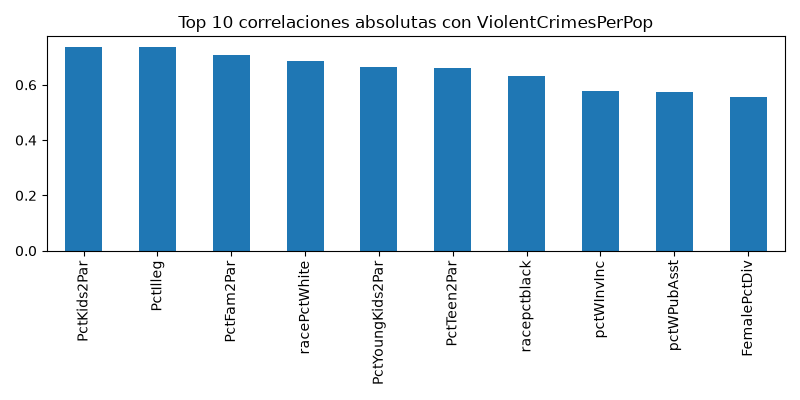
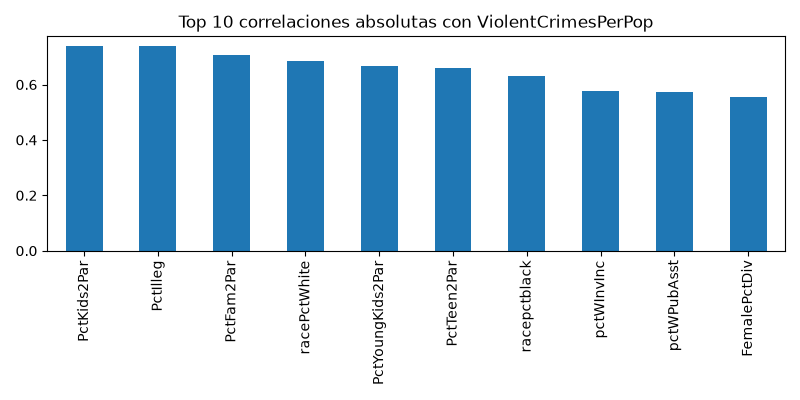
feat: integra analisis en main.py y actualiza README con hallazgos completos

diff --git a/main.py b/main.py
@@ -1,7 +1,10 @@
 import json
 from pathlib import Path
 
+import pandas as pd
+
 from lab_semana1.carga import cargar, guardar, limpiar, reporte_nulos
+from src.analisis import recta_minimos_cuadrados, resumen_por_grupo, top_k
 
 
 class FriendlyException(Exception):
@@ -61,14 +64,37 @@ def main():
     with open(report_path, "w", encoding="utf8") as fh:
         json.dump(report, fh, indent=2)
 
-    # try to plot top correlations with target if matplotlib available
     target = "ViolentCrimesPerPop"
+
+    if "population" in cleaned.columns:
+        cleaned["grupo_poblacion"] = pd.qcut(
+            cleaned["population"], 4, labels=["Q1", "Q2", "Q3", "Q4"]
+        )
+        print("Resumen por grupo de poblacion:")
+        print(resumen_por_grupo(cleaned, "grupo_poblacion", [target]))
+    else:
+        print("Columna 'population' no encontrada; se omite resumen_por_grupo.")
+
+    if target in cleaned.columns:
+        print(f"Top 5 comunidades por {target}:")
+        print(top_k(cleaned, target, 5))
+    else:
+        print(f"Columna {target} no encontrada; se omite top_k.")
+
+    if "PctPopUnderPov" in cleaned.columns and target in cleaned.columns:
+        a, b = recta_minimos_cuadrados(
+            cleaned["PctPopUnderPov"].to_numpy(),
+            cleaned[target].to_numpy(),
+        )
+        print(f"Recta de minimos cuadrados: pendiente={a:.4f}, intercepto={b:.4f}")
+    else:
+        print("Columnas necesarias no encontradas; se omite regresion lineal.")
+
     try:
         import matplotlib.pyplot as plt
     except ImportError:
         print("matplotlib not installed; skipping figure.")
     else:
-        # separate plotting runtime errors (font, backend, I/O) from import
         try:
             if target in cleaned.columns:
                 num = cleaned.select_dtypes(include=["number"]).drop(columns=[target], errors="ignore")

diff --git a/README.md b/README.md
@@ -24,6 +24,18 @@ tmpdir=$(mktemp -d /tmp/uv-cache-XXXXX) && export UV_CACHE_DIR="$tmpdir" && PYTH
 ## Hallazgos
 - (A) Aproximadamente 21 columnas fueron eliminadas por tener más del 80% de valores faltantes (de 128 columnas originales a 107), sin encontrarse filas duplicadas relevantes en el dataset original.
 - (B) La tasa de crimen violento (ViolentCrimesPerPop) muestra una correlación clara con el porcentaje de población bajo la línea de pobreza (PctPopUnderPov).
+
+### Detalle de limpieza (A)
+- before rows,cols: (1994, 128)
+- before total NaNs: 39202
+- before duplicates: 0
+- after rows,cols: (1994, 107)
+- after total NaNs: 2351
+- removed rows: 0
+- removed cols: 21
+
+Entre las columnas con más nulos están PolicReqPerOffic, PolicAveOTWorked, PolicPerPop, RacialMatchCommPol, entre otras. La limpieza conservadora conserva la mayoría de las variables útiles y añade indicadores de faltantes para las columnas imputadas.
+
 ## Decisiones de limpieza
 Umbrales configurables en la función limpiar():
 drop_thresh (por defecto 0.8): eliminar columnas con >80% de valores faltantes.
@@ -53,7 +65,6 @@ requires-python = ">=3.14"
 [[package]]
 name = "numpy"
 version = "2.5.2"
-
 
 ## Pregunta 2
 ¿qué diferencia hay entre correr pytest a secas y uv run pytest? Pista: tiene que ver con cuál Python y cuál
